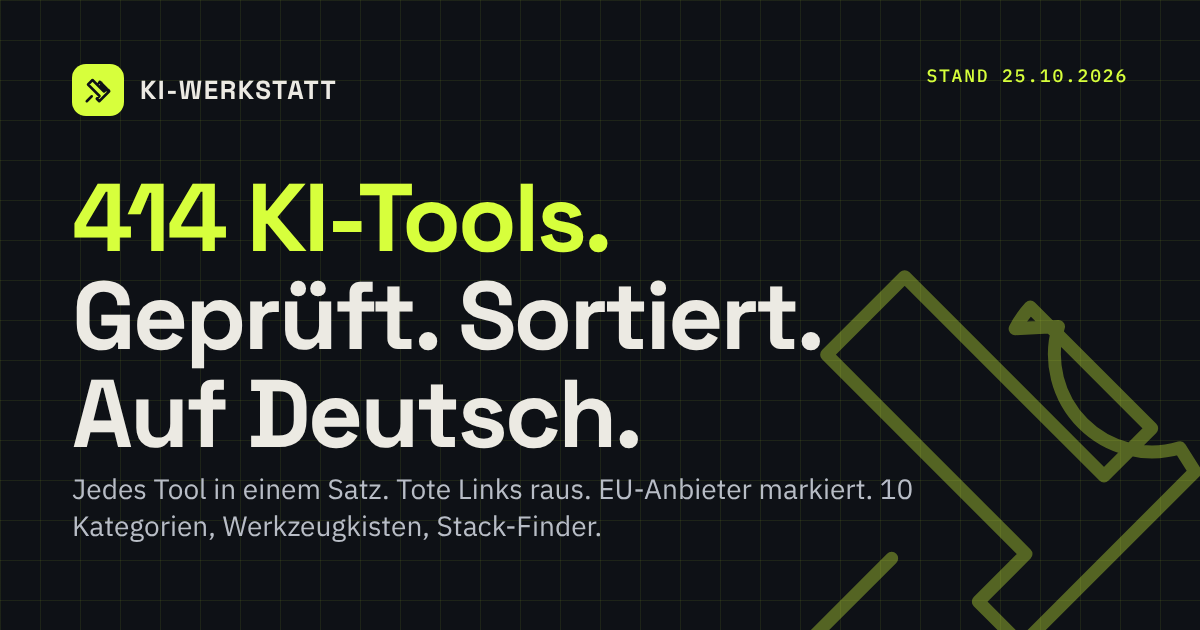
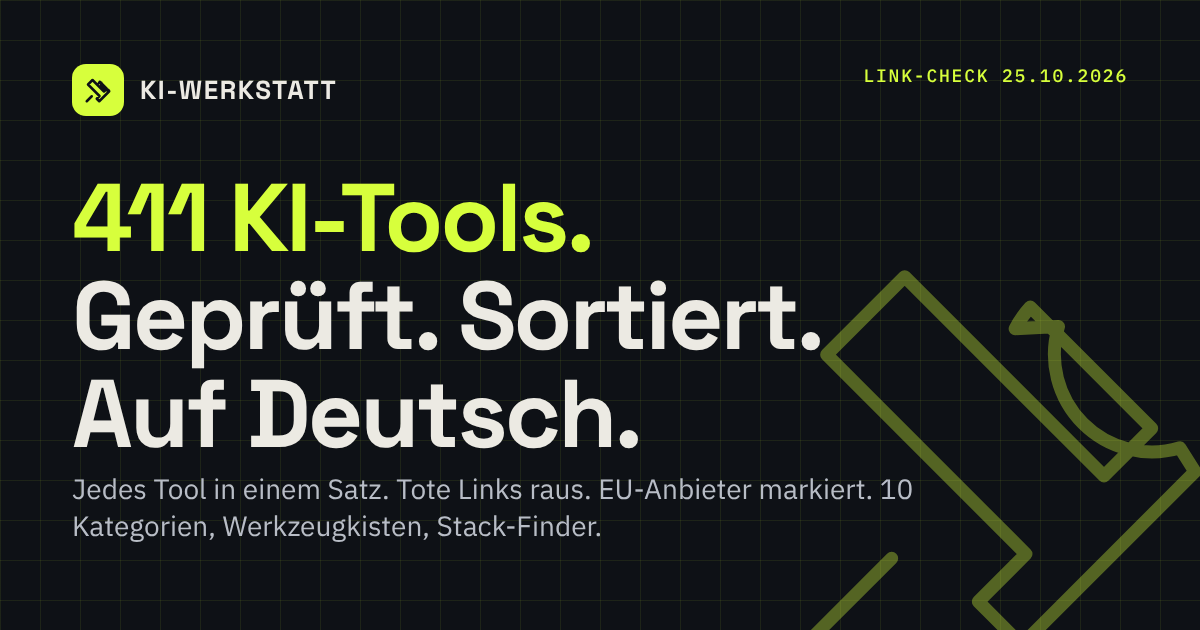
Address second review round: og.png in build, search scroll, checker scope
- build_de_page.py renders og.png via scripts/render_og.js (Playwright)
  so the social preview carries the same numbers as the page; warns if
  node is missing
- Search scrolls to the first visible hit instead of main.content, so
  matches in the featured list or the learning section are shown
- Sticky bar no longer promises tailored stacks; it offers the CSV plus
  the overview of the six stacks
- check_links.py now includes the PROMPTGOTT Substack URLs (436 links,
  0 dead)

Claude-Session: https://claude.ai/code/session_0141P7LzLKNJBRc9NdTMUnGv

Changed region(s): [[0.1233, 0.2714, 0.5242, 0.4222], [0.74, 0.0905, 0.8325, 0.1508]]

diff --git a/docs/index.html b/docs/index.html
@@ -71,7 +71,7 @@
 <a class="btn btn-lime btn-sm hide-m" href="#stack-check"><svg class="ico" aria-hidden="true"><use href="#i-mail"/></svg>Stack-Check</a></div>
 </div><div id="progress"></div></header>
 <section class="hero"><div class="hero-art"><div class="float f1" data-depth="0.35"><svg viewBox="0 0 24 24"><path d="M14.7 6.3a4.5 4.5 0 0 0 5.6 5.6L21 13l-8 8-2-2 2.2-2.2L4 7.6 7.6 4l9.2 9.2L19 11l-5.6-5.6a4.5 4.5 0 0 0-.7 1Z"/><path d="m3 21 4-4"/></svg></div><div class="float f2" data-depth="0.6"><svg viewBox="0 0 24 24"><path d="M12 3v4M12 17v4M3 12h4M17 12h4M5.6 5.6l2.8 2.8M15.6 15.6l2.8 2.8M5.6 18.4l2.8-2.8M15.6 8.4l2.8-2.8"/><circle cx="12" cy="12" r="2.5"/></svg></div><div class="float f3" data-depth="0.25"><svg viewBox="0 0 24 24"><rect x="6" y="6" width="12" height="12" rx="2"/><rect x="10" y="10" width="4" height="4"/><path d="M9 2v4M15 2v4M9 18v4M15 18v4M2 9h4M2 15h4M18 9h4M18 15h4"/></svg></div><div class="float f4" data-depth="0.5"><svg viewBox="0 0 24 24"><path d="m3 17 14-14 4 4L7 21l-4-4Z"/><path d="m7 13 2 2M10 10l2 2M13 7l2 2"/></svg></div><div class="float f5" data-depth="0.15"><svg viewBox="0 0 24 24"><path d="m8 8-4 4 4 4M16 8l4 4-4 4M14 4l-4 16"/></svg></div></div><div class="wrap">
-<p class="kicker"><svg class="ico" aria-hidden="true"><use href="#i-wrench"/></svg> <b>KI-Werkstatt</b> · Link-Check 25.10.2026: 420 Links geprüft</p>
+<p class="kicker"><svg class="ico" aria-hidden="true"><use href="#i-wrench"/></svg> <b>KI-Werkstatt</b> · Link-Check 25.10.2026: 436 Links geprüft</p>
 <h1><em>411 KI-Tools.</em><br>Geprüft. Sortiert.<br>Auf Deutsch.</h1>
 <p class="sub">Jedes Tool in einem Satz erklärt. Tote Links raus. Anbieter aus der EU markiert. Dazu Werkzeugkisten für typische Fälle und ein Stack-Finder, der dir in drei Fragen sagt, womit du anfängst.</p>
 <div class="ctas"><a class="btn btn-lime" href="#finder-band"><svg class="ico" aria-hidden="true"><use href="#i-compass"/></svg>Stack-Finder starten</a><a class="btn" href="#liste"><svg class="ico" aria-hidden="true"><use href="#i-layers"/></svg>Zur Liste</a><a class="btn" href="#stack-check"><svg class="ico" aria-hidden="true"><use href="#i-mail"/></svg>Kostenloser Stack-Check</a></div>
@@ -638,12 +638,12 @@
 <div><h4>Praxis</h4><ul><li><a href="https://promptgott.substack.com/?utm_source=github-pages&utm_medium=referral&utm_campaign=awesome-ki-tools-de" target="_blank" rel="noopener">PROMPTGOTT auf Substack</a></li><li><a href="https://promptgott.substack.com/subscribe?utm_source=github-pages&utm_medium=referral&utm_campaign=awesome-ki-tools-de" target="_blank" rel="noopener">Newsletter abonnieren</a></li></ul></div>
 <div><h4>Rechtliches</h4><ul><li><a href="impressum.html">Impressum</a></li><li><a href="datenschutz.html">Datenschutz</a></li><li><a href="https://github.com/jmp-collab/awesome-ai-tools/blob/main/LICENSE">MIT-Lizenz</a></li></ul></div>
 </div>
-<p>Letzter Link-Check: 25.10.2026 (420 Links). Seite gebaut am 25.10.2026. Basiert auf <a href="https://github.com/mahseema/awesome-ai-tools">Awesome AI Tools</a> von Mahsima Dastan (MIT). Tool-Logos werden als Favicons der jeweiligen Anbieter geladen; die Rechte liegen bei den Anbietern.</p>
+<p>Letzter Link-Check: 25.10.2026 (436 Links). Seite gebaut am 25.10.2026. Basiert auf <a href="https://github.com/mahseema/awesome-ai-tools">Awesome AI Tools</a> von Mahsima Dastan (MIT). Tool-Logos werden als Favicons der jeweiligen Anbieter geladen; die Rechte liegen bei den Anbietern.</p>
 </div></footer>
 <button id="totop" type="button" title="Nach oben"><svg class="ico" aria-hidden="true"><use href="#i-up"/></svg></button>
 <a class="btn btn-lime fab" href="#stack-check"><svg class="ico" aria-hidden="true"><use href="#i-mail"/></svg>Stack-Check</a>
 <div class="stickybar" id="stickybar"><div class="wrap in">
-<div><b>Die Liste als CSV + Setup-Tipps per Mail</b><small>Eine Mail mit dem Download und drei Werkzeugkisten für deinen Fall. Kein Newsletter-Dauerfeuer.</small></div>
+<div><b>Die Liste als CSV per Mail</b><small>Eine Mail mit dem Download und dem Überblick über die sechs Werkzeugkisten. Kein Newsletter-Dauerfeuer.</small></div>
 <form action="https://formsubmit.co/jeanmaurieport@gmail.com" method="POST"><input type="hidden" name="_subject" value="CSV-Anfrage – KI-Werkstatt"><input type="hidden" name="_captcha" value="false"><input type="hidden" name="_template" value="table"><input type="hidden" name="_next" value="https://jmp-collab.github.io/awesome-ai-tools/danke.html"><input type="hidden" name="quelle" value="Sticky-Leiste"><input type="text" name="_honey" class="honey" tabindex="-1" autocomplete="off">
 <label class="sr" for="sb-mail">E-Mail</label><input id="sb-mail" type="email" name="email" placeholder="deine@mail.de" required><button class="btn btn-lime btn-sm" type="submit">Schicken</button><label class="sb-consent"><input type="checkbox" name="einwilligung" value="ja" required> Einverstanden, dass meine E-Mail über FormSubmit an Jean Maurice Port geht. <a href="datenschutz.html">Datenschutz</a></label></form>
 <button class="close" type="button" title="Schließen"><svg class="ico" aria-hidden="true"><use href="#i-x"/></svg></button>

diff --git a/docs/assets/app.js b/docs/assets/app.js
@@ -46,9 +46,13 @@
       $$("aside, p, .table, ul.plain, ol.plain, .cat-art", sec).forEach(function (el) { el.classList.toggle("hidden", filtering); });
     });
     if (count) count.textContent = filtering ? uniq(items.filter(function (li) { return !li.classList.contains("hidden"); })) + " von " + uniq(items) + " Tools" : uniq(items) + " Tools";
-    if (filtering && main) {
-      var y = main.getBoundingClientRect().top + window.scrollY - 80;
-      if (window.scrollY < y) window.scrollTo({ top: y, behavior: reduce ? "auto" : "smooth" });
+    if (filtering) {
+      // Zum ersten sichtbaren Treffer scrollen, egal in welcher Liste er steht
+      var first = items.filter(function (li) { return !li.classList.contains("hidden"); })[0];
+      if (first) {
+        var r = first.getBoundingClientRect();
+        if (r.top < 120 || r.bottom > window.innerHeight) window.scrollTo({ top: r.top + window.scrollY - 140, behavior: reduce ? "auto" : "smooth" });
+      }
     }
   }
   [q].concat(feu, foss).forEach(function (el) { if (el) el.addEventListener("input", function (e) { if (e.target.type === "checkbox") { (e.target.classList.contains("f-eu") ? feu : foss).forEach(function (c) { c.checked = e.target.checked; }); } run(); }); });

diff --git a/scripts/render_og.js b/scripts/render_og.js
@@ -1,0 +1,14 @@
+// Rendert docs/og.html nach docs/og.png (1200x630). Braucht Playwright + Chromium.
+// Wird von scripts/build_de_page.py aufgerufen; manuell: node scripts/render_og.js
+const path = require("path");
+const { chromium } = require("playwright");
+(async () => {
+  const docs = path.resolve(__dirname, "..", "docs");
+  const b = await chromium.launch();
+  const p = await b.newPage({ viewport: { width: 1200, height: 630 } });
+  await p.goto("file://" + path.join(docs, "og.html"));
+  await p.waitForTimeout(300);
+  await p.screenshot({ path: path.join(docs, "og.png") });
+  await b.close();
+  console.log("docs/og.png gerendert");
+})().catch((e) => { console.error("og.png nicht gerendert:", e.message); process.exit(1); });

diff --git a/scripts/build_de_page.py b/scripts/build_de_page.py
@@ -13,7 +13,10 @@ README.de.md bleibt die einzige Quelle für die Liste; docs/ nie von Hand bearbe
 import csv
 import html
 import json
+import os
 import re
+import shutil
+import subprocess
 from datetime import date
 from pathlib import Path
 from urllib.parse import urlparse
@@ -415,7 +418,7 @@ def footer():
 <button id="totop" type="button" title="Nach oben">{icon("up")}</button>
 <a class="btn btn-lime fab" href="#stack-check">{icon("mail")}Stack-Check</a>
 <div class="stickybar" id="stickybar"><div class="wrap in">
-<div><b>Die Liste als CSV + Setup-Tipps per Mail</b><small>Eine Mail mit dem Download und drei Werkzeugkisten für deinen Fall. Kein Newsletter-Dauerfeuer.</small></div>
+<div><b>Die Liste als CSV per Mail</b><small>Eine Mail mit dem Download und dem Überblick über die sechs Werkzeugkisten. Kein Newsletter-Dauerfeuer.</small></div>
 <form action="https://formsubmit.co/{LEAD_TO}" method="POST"><input type="hidden" name="_subject" value="CSV-Anfrage – KI-Werkstatt"><input type="hidden" name="_captcha" value="false"><input type="hidden" name="_template" value="table"><input type="hidden" name="_next" value="{SITE_URL}danke.html"><input type="hidden" name="quelle" value="Sticky-Leiste"><input type="text" name="_honey" class="honey" tabindex="-1" autocomplete="off">
 <label class="sr" for="sb-mail">E-Mail</label><input id="sb-mail" type="email" name="email" placeholder="deine@mail.de" required><button class="btn btn-lime btn-sm" type="submit">Schicken</button><label class="sb-consent"><input type="checkbox" name="einwilligung" value="ja" required> Einverstanden, dass meine E-Mail über FormSubmit an Jean Maurice Port geht. <a href="datenschutz.html">Datenschutz</a></label></form>
 <button class="close" type="button" title="Schließen">{icon("x")}</button>
@@ -639,6 +642,14 @@ svg.w{{position:absolute;right:-60px;bottom:-80px;width:520px;height:520px;fill:
 <svg class="w" viewBox="0 0 24 24">{icon_body("wrench")}</svg>
 </body></html>"""
     (DOCS / "og.html").write_text(og, encoding="utf-8")
+    # og.png aus og.html rendern, damit Social-Vorschau und Seite dieselben Zahlen zeigen
+    if shutil.which("node"):
+        env = dict(os.environ, NODE_PATH=os.environ.get("NODE_PATH") or subprocess.run(["npm", "root", "-g"], capture_output=True, text=True).stdout.strip())
+        r = subprocess.run(["node", str(ROOT / "scripts" / "render_og.js")], env=env, capture_output=True, text=True)
+        if r.returncode:
+            print("WARNUNG: og.png nicht aktualisiert (" + r.stderr.strip().splitlines()[-1] + "). Manuell: node scripts/render_og.js")
+    else:
+        print("WARNUNG: node fehlt, og.png nicht aktualisiert. Manuell: node scripts/render_og.js")
 
 
 def main():

diff --git a/scripts/check_links.py b/scripts/check_links.py
@@ -45,7 +45,7 @@ def status(url):
 
 def main():
     md = SRC.read_text(encoding="utf-8")
-    urls = sorted({u for u in re.findall(r"\]\(" + DEST + r"\)", md) if u.startswith("http") and "promptgott.substack.com" not in u and u != "https://url"})
+    urls = sorted({u for u in re.findall(r"\]\(" + DEST + r"\)", md) if u.startswith("http") and u != "https://url"})  # "https://url" ist das Format-Beispiel unter Mitmachen
     with ThreadPoolExecutor(max_workers=24) as ex:
         results = dict(zip(urls, ex.map(status, urls)))
     dead = {u: c for u, c in results.items() if not (200 <= c < 400 or c in OK_CODES)}
